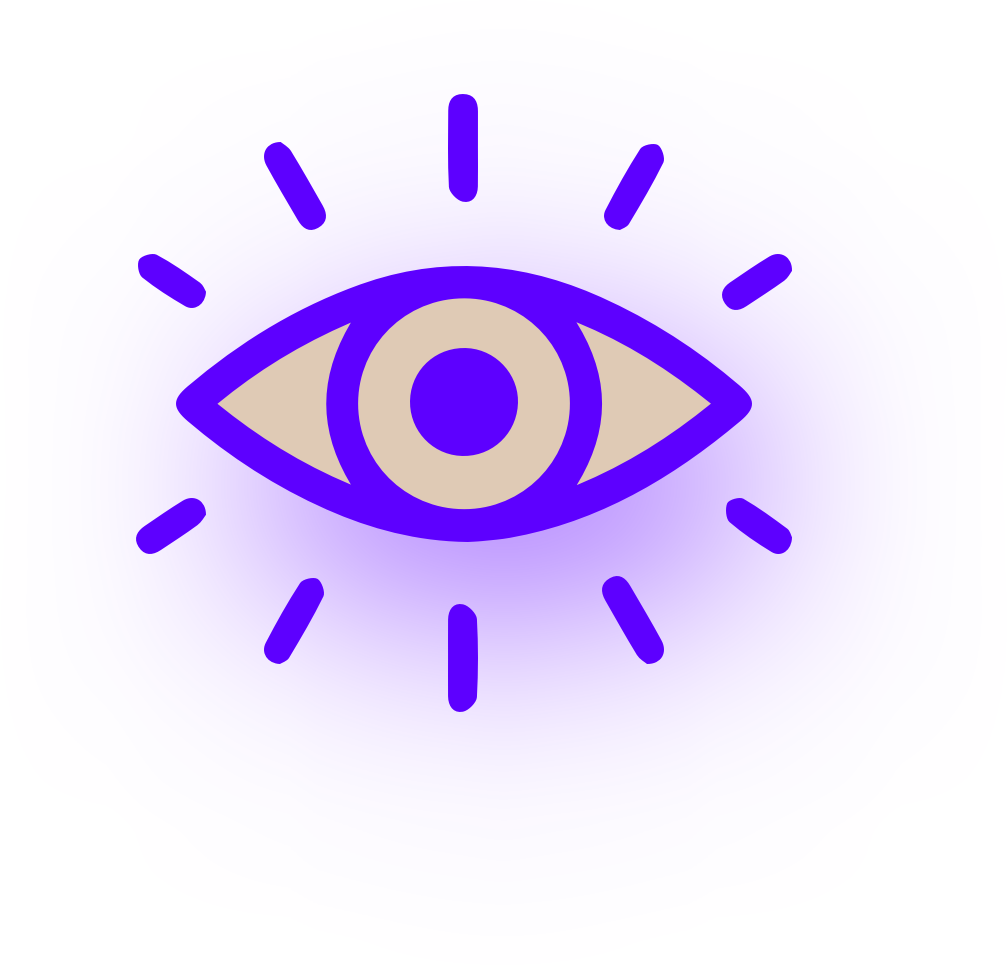
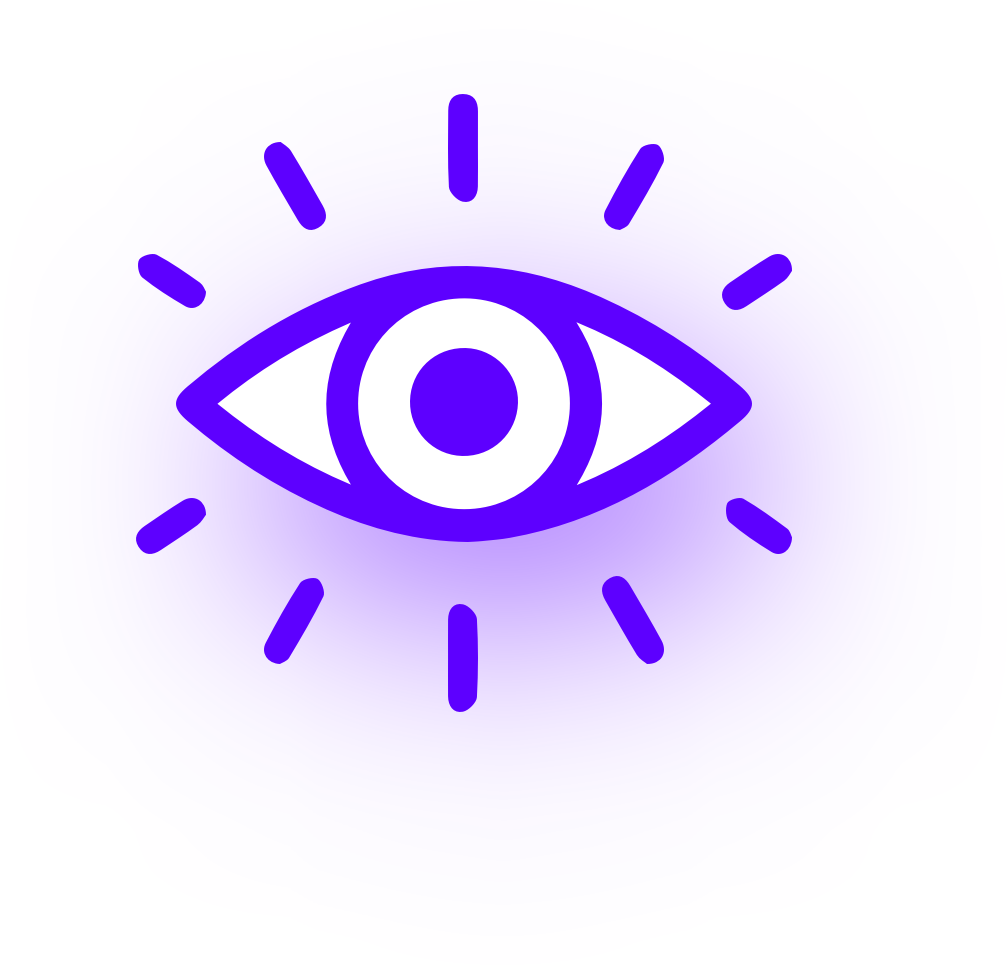
color fixes

Changed region(s): [[0.2153, 0.3106, 0.7073, 0.528]]

diff --git a/resources/views/pages/manifesto.blade.php b/resources/views/pages/manifesto.blade.php
@@ -1,6 +1,6 @@
 @extends('page-base')
 
-@section('body_classes', 'hello alt theme-5')
+@section('body_classes', 'hello alt theme-1')
 
 @section('page-title', 'Manifesto')
 
@@ -107,7 +107,7 @@
             <div class="text-block">
                 <div class="text-block__title">
                     <h2 class="title title--medium">
-                        <span class="title__offset">4.</span> Ease of use makes impact
+                        <span class="title__offset">4.</span> Ease of use makes impact.
                     </h2>
                 </div>
                 <div class="text-block__content">

diff --git a/resources/views/pages/experiment.blade.php b/resources/views/pages/experiment.blade.php
@@ -1,6 +1,6 @@
 @extends('page-base')
 
-@section('body_classes', 'hello theme-4')
+@section('body_classes', 'hello theme-3')
 
 @section('page-title', 'Experiment')
 

diff --git a/resources/views/projects/index.blade.php b/resources/views/projects/index.blade.php
@@ -1,6 +1,6 @@
 @extends('page-base')
 
-@section('body_classes', 'hello theme-4')
+@section('body_classes', 'hello theme-3')
 
 @section('page-title', 'Portfolio')
 

diff --git a/resources/views/pages/home.blade.php b/resources/views/pages/home.blade.php
@@ -1,6 +1,6 @@
 @extends('base')
 
-@section('body_classes', 'hello theme-4')
+@section('body_classes', 'hello theme-1')
 
 @section('content')
 
